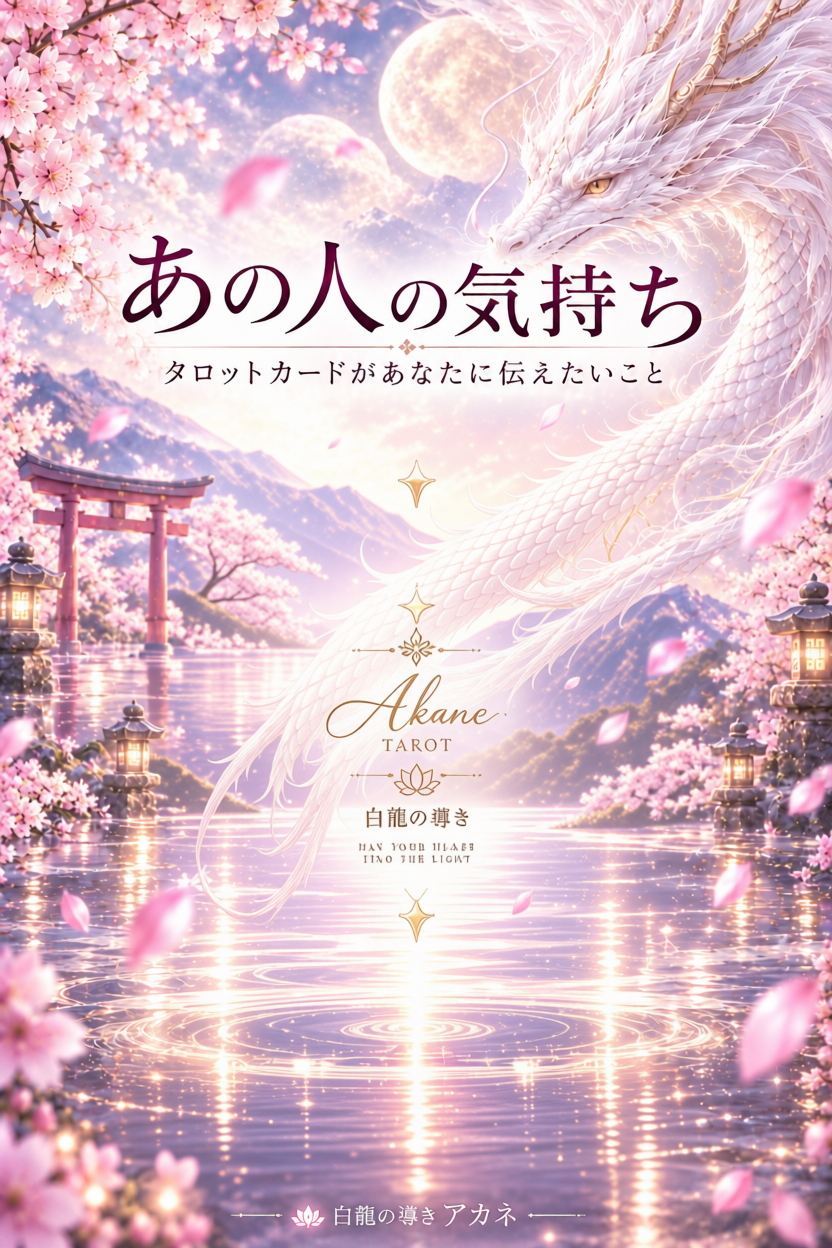
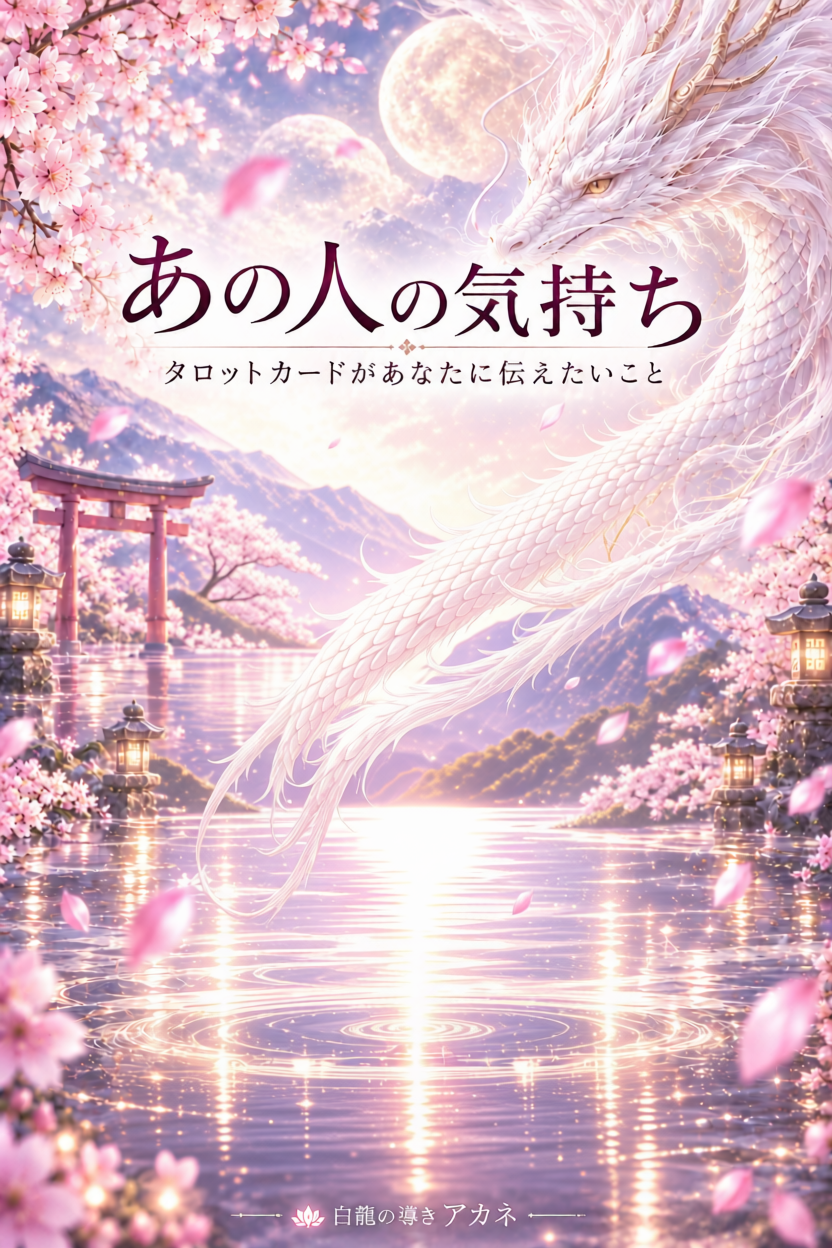
Update initial background and enlarge tarot card

Changed region(s): [[0.3438, 0.4688, 0.6875, 0.7188], [0.4688, 0.7188, 0.5312, 0.75], [0.4688, 0.375, 0.5312, 0.4062]]

diff --git a/index.html b/index.html
@@ -9,7 +9,7 @@
 <meta property="og:description" content="タロットカードがあなたの恋の悩みに答えます。">
 <meta property="og:type" content="website">
 <title>あの人の気持ち鑑定｜タロット占い</title>
-<link rel="stylesheet" href="css/style.css?v=50">
+<link rel="stylesheet" href="css/style.css?v=51">
 <link href="https://fonts.googleapis.com/css2?family=Noto+Serif+JP:wght@200;300;400;700&family=Cinzel+Decorative:wght@400;700&display=swap" rel="stylesheet">
 </head>
 <body>

diff --git a/css/style.css b/css/style.css
@@ -145,8 +145,8 @@ body {
 }
 
 .app.init-bg .card-scene {
-  top: 31.5%;
-  width: min(48%, 224px);
+  top: 30.8%;
+  width: min(54%, 252px);
   animation: cardFloat 4.8s ease-in-out infinite;
 }
 
